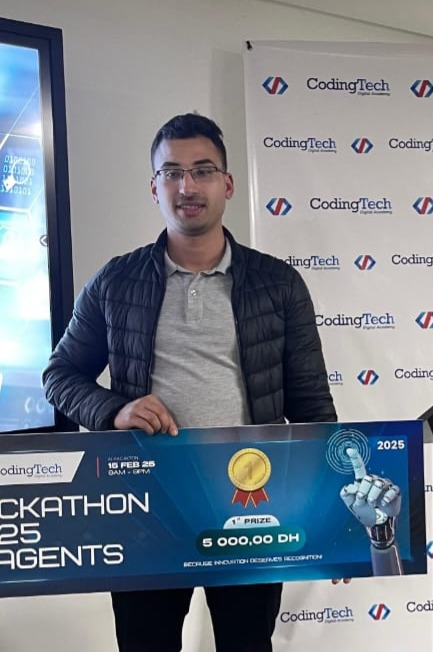
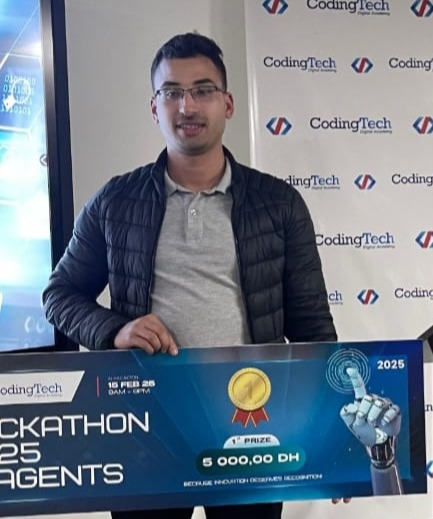
add Projects

diff --git a/src/data/constants.js b/src/data/constants.js
@@ -323,17 +323,17 @@ export const projects = [
     date: "Février 2025",
     description:
       "Remporter le AI Hackathon 2025 - Fuse Intelligence & Innovation a été une aventure incroyable ! 🚀 En équipe, nous avons conçu une solution d’intelligence artificielle innovante, Ce défi nous a permis d’explorer des techniques avancées en machine learning, NLP, computer vision et d’affiner notre approche en ingénierie IA.🏆",
-    image: "/Hackathon-AI-me.jpg",
-    tags: ["HTML", "CSS", "BOOTSTRAP", "JS", "MYSQL", "UML"],
+    image: "/Hackathon-AI-me.jpg?height=400&width=600",
+    tags: ["YOLOv8", "numpy", "OpenCV", "Python", "tensorflow"],
     category: "web app",
   },
   {
     id: 11,
-    title: "Student Money Management App",
-    date: "Jan 2024 - Apr 2024",
+    title: "Stock management application",
+    date: "Fev 2024 - Sept 2024",
     description:
       "Developed a comprehensive money management application for students to track expenses, create monthly budgets by category, set financial goals with statistics, send money to friends, and earn points through gamification features.",
-    image: "/tawfir.png?height=400&width=600",
+    image: "/magnisfy-projet.png?height=400&width=600",
     tags: ["Next.js", "Spring Boot", "Docker", "Tailwind CSS", "MySQL"],
     category: "web app",
     github: "",

diff --git a/src/components/Cards/ProjectCards.jsx b/src/components/Cards/ProjectCards.jsx
@@ -148,13 +148,21 @@ const Avatar = styled.img`
 `
 
 const ProjectCards = ({project, setOpenModal, isFirst}) => {
+    const isHackathonProject = project.title === "AI Hackathon 2025 - Fuse Intelligence & Innovation";
+    
     return (
         <Card 
             onClick={() => setOpenModal({state: true, project: project})}
             isFirst={isFirst}
         >
             {isFirst && <Medal />}
-            <Image src={project.image}/>
+            <Image 
+                src={isHackathonProject ? "/Hackathon-AI-me.jpg" : project.image}
+                style={isHackathonProject ? { 
+                    objectFit: 'contain',
+                    backgroundColor: '#000000'
+                } : {}}
+            />
           
             <Tags>
                 {project.tags?.map((tag, index) => (
